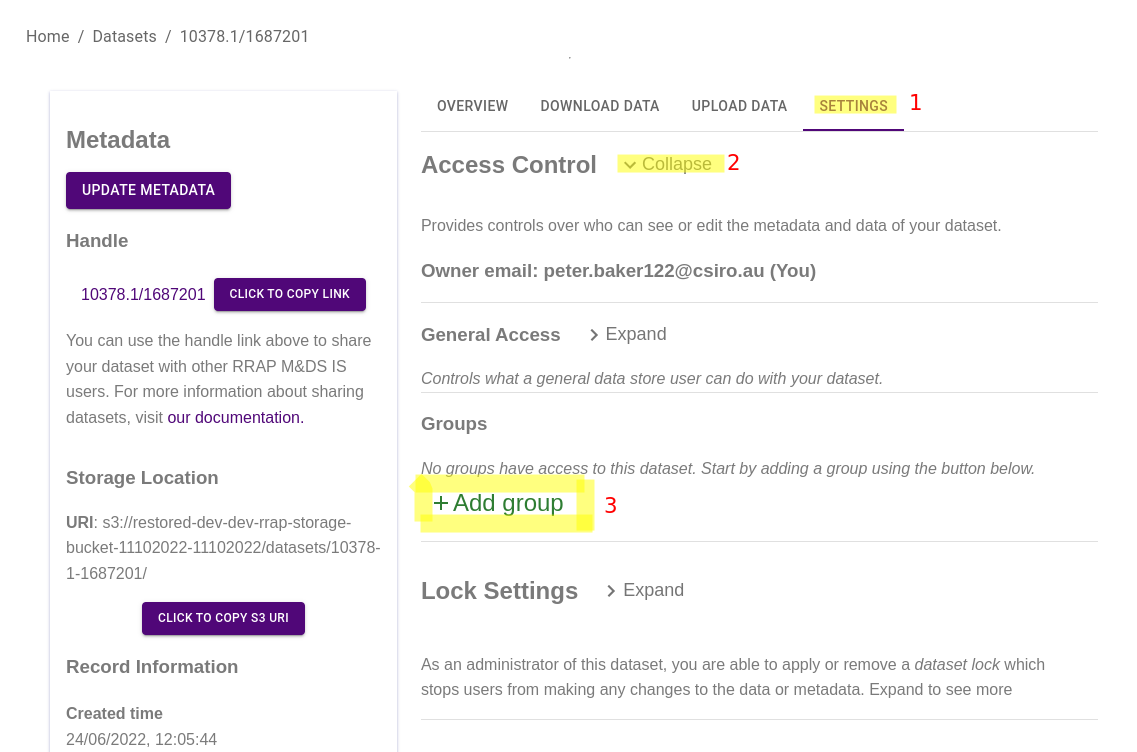
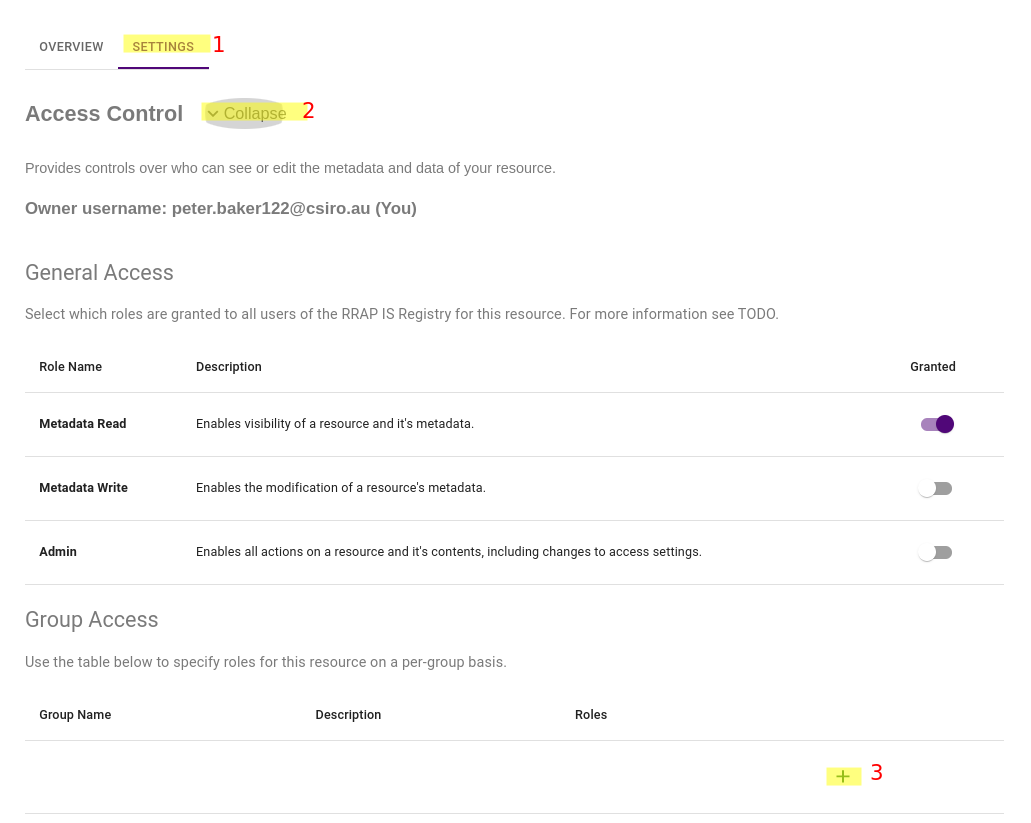
Updating steps and screenshots

diff --git a/information-system/provenance/registry/access-control.md b/information-system/provenance/registry/access-control.md
@@ -89,48 +89,50 @@ A resource can be made available to more than one group with differing accessibi
 
 You can grant group access to a resource you have administrative control over by viewing the resource, navigating to the settings panel (1), expanding the Access Control section (2), and selecting "+ Add Group" (3), as highlighted below.
 
-|                                      Adding groups to a dataset                                       |
-| :---------------------------------------------------------------------------------------------------: |
-| <img src="../../assets/images/data_store/access_control/adding_group.png" alt="drawing" width="600"/> |
+|                                              Adding groups                                               |
+| :------------------------------------------------------------------------------------------------------: |
+| <img src="../../../assets/images/data_store/access_control/adding_group.png" alt="drawing" width="600"/> |
 
 The resulting popup will allow you to select from the created groups. If you only want to show groups you are in, select the toggle button (1). If you can't see the group you are looking for, you may need to visit the next page (2). Select one or more groups by clicking on the row(s), and pressing submit (3).
 
-|                                          Submitting selected groups                                          |
-| :----------------------------------------------------------------------------------------------------------: |
-| <img src="../../assets/images/data_store/access_control/adding_groups_panel.png" alt="drawing" width="600"/> |
-
-Once the selected groups are added, you will see the collapsed access configuration for each group in the Access Control section. By default, each group is configured with metadata read permission only. The change the access configuration for a group, press the "Expand" button next to it's name (1) and use the toggles to grant access.
-
-|                                            Configuring group access                                             |
+|                                           Submitting selected groups                                            |
 | :-------------------------------------------------------------------------------------------------------------: |
-| <img src="../../assets/images/data_store/access_control/selecting_group_access.png" alt="drawing" width="600"/> |
+| <img src="../../../assets/images/data_store/access_control/adding_groups_panel.png" alt="drawing" width="600"/> |
+
+Once the selected groups are added, you will see a row for each group in the Group Access subsection. By default, each group is configured with no roles. To change the access configuration for a group, press the "Edit" pencil icon in it's row (1) and use the toggles on the resulting popup to grant access.
+
+|                                              Configuring group access                                              |
+| :----------------------------------------------------------------------------------------------------------------: |
+| <img src="../../../assets/images/data_store/access_control/selecting_group_access.png" alt="drawing" width="600"/> |
 
 ### Remove Group Access
 
-A group's access rights to a dataset can be removed by removing the entire group from the datasets list of groups as opposed to disabling the groups roles. This will not delete the group.
+To remove the access grants for a group, remove the group using the "x" icon (1). This will not delete the group. Make sure to submit your changes!
 
-|                         General User Read access to dataset metadata and data                         |
+|                                           Removing a group                                            |
 | :---------------------------------------------------------------------------------------------------: |
 | <img src="../../assets/images/data_store/access_control/remove_group.PNG" alt="drawing" width="600"/> |
 
 ### Creating a group
 
-Group creation is currently performed by Information System Administrators. Please get in touch and we can help facilitate this for you.
+Group creation is currently performed by Information System Administrators. Please get in touch and we can help facilitate this for you. You can lodge a request for a new group using the Issue Template [here](https://github.com/gbrrestoration/mds-is-issues/issues/new?assignees=&labels=new+group%2Ctriage&template=request-a-new-group.md&title=%5BNew+Group+Request%5D+).
 
-### Group Access typical configuration examples
+### Group Access typical dataset configuration examples
 
-If you would like all Data Store users to be able to view and download your dataset, but not edit the contents of it,
+The below screenshots will highlight some common access configurations for dataset resources.
+
+If you would like all registry users to be able to view and download your dataset, but not edit the contents of it,
 grant general user read access for both metadata read and dataset read:
 
-|                       Enabling general user read access to dataset metadata and data                       |
-| :--------------------------------------------------------------------------------------------------------: |
-| <img src="../../assets/images/data_store/access_control/general_user_read.PNG" alt="drawing" width="600"/> |
+|                        Enabling general user read access to dataset metadata and data                         |
+| :-----------------------------------------------------------------------------------------------------------: |
+| <img src="../../../assets/images/data_store/access_control/general_user_read.png" alt="drawing" width="600"/> |
 
 Furthermore, if you'd like to limit the editing rights to a group of team members, you can create an editors group and enable
 write permissions for them whilst leaving the general user write permissions (for metadata and data) _not_ granted.
 
-|                          General User Read access to dataset metadata and data                           |
-| :------------------------------------------------------------------------------------------------------: |
-| <img src="../../assets/images/data_store/access_control/dataset_editors.png" alt="drawing" width="600"/> |
+|                                        Editors group dataset access                                         |
+| :---------------------------------------------------------------------------------------------------------: |
+| <img src="../../../assets/images/data_store/access_control/dataset_editors.png" alt="drawing" width="600"/> |
 
-If at some point you wish to temporarily disable all updates/writes to the dataset, it may be easier to apply a [resource lock](./information-system/registry/resource_lock.html){:target="\_blank"} as opposed to the potentially more complex task of managing the group/user roles.
+If at some point you wish to temporarily disable all updates/writes to the dataset, it may be easier to apply a [resource lock](./resource_lock) as opposed to the potentially more complex task of managing the group/user roles.
